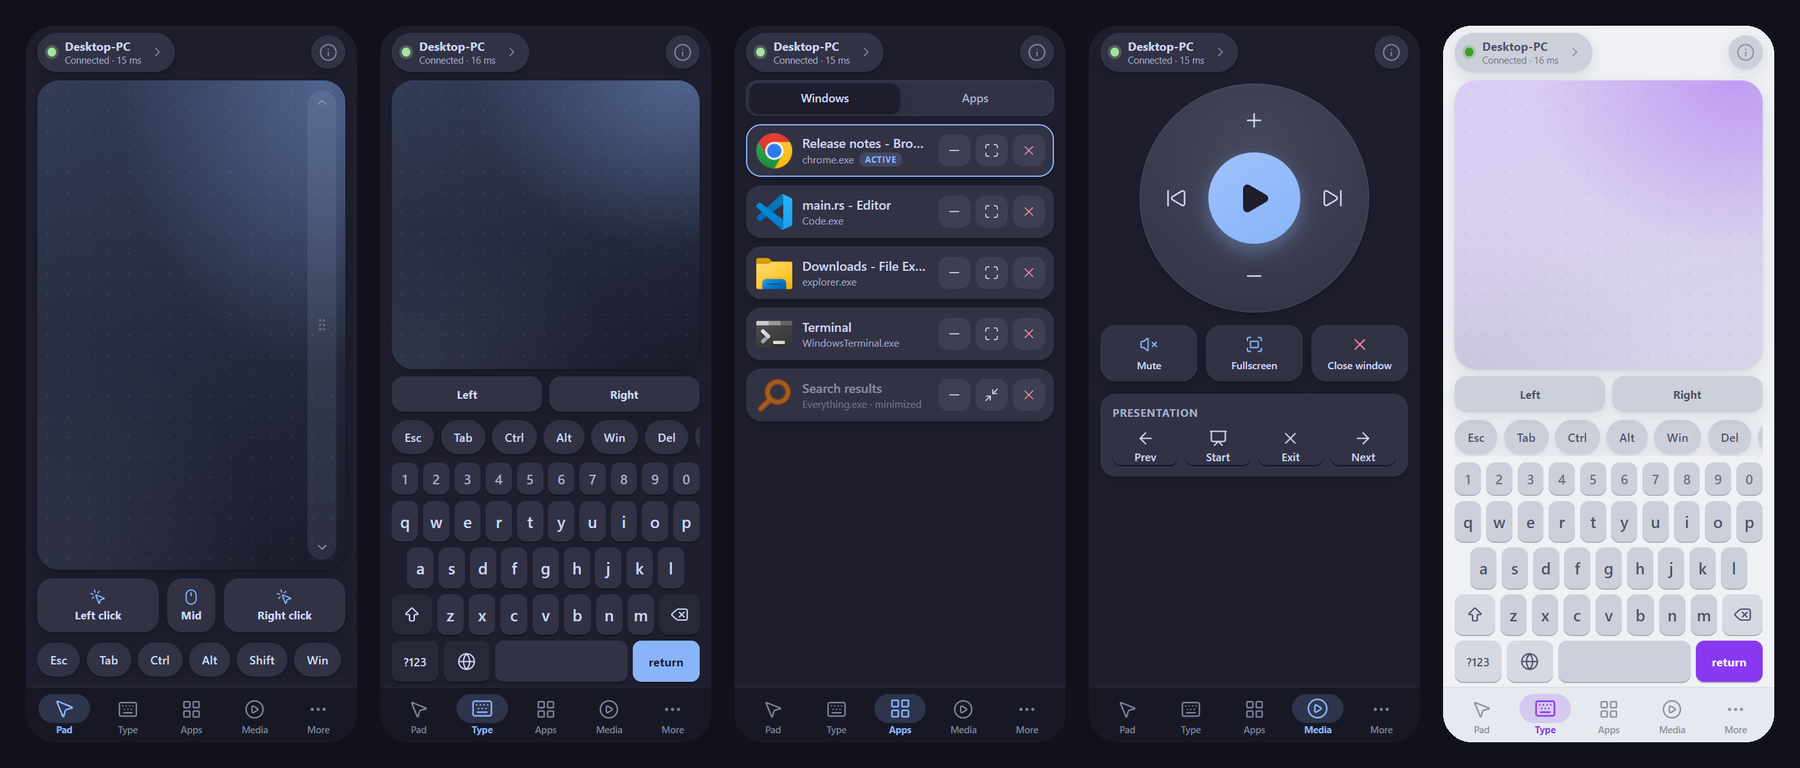
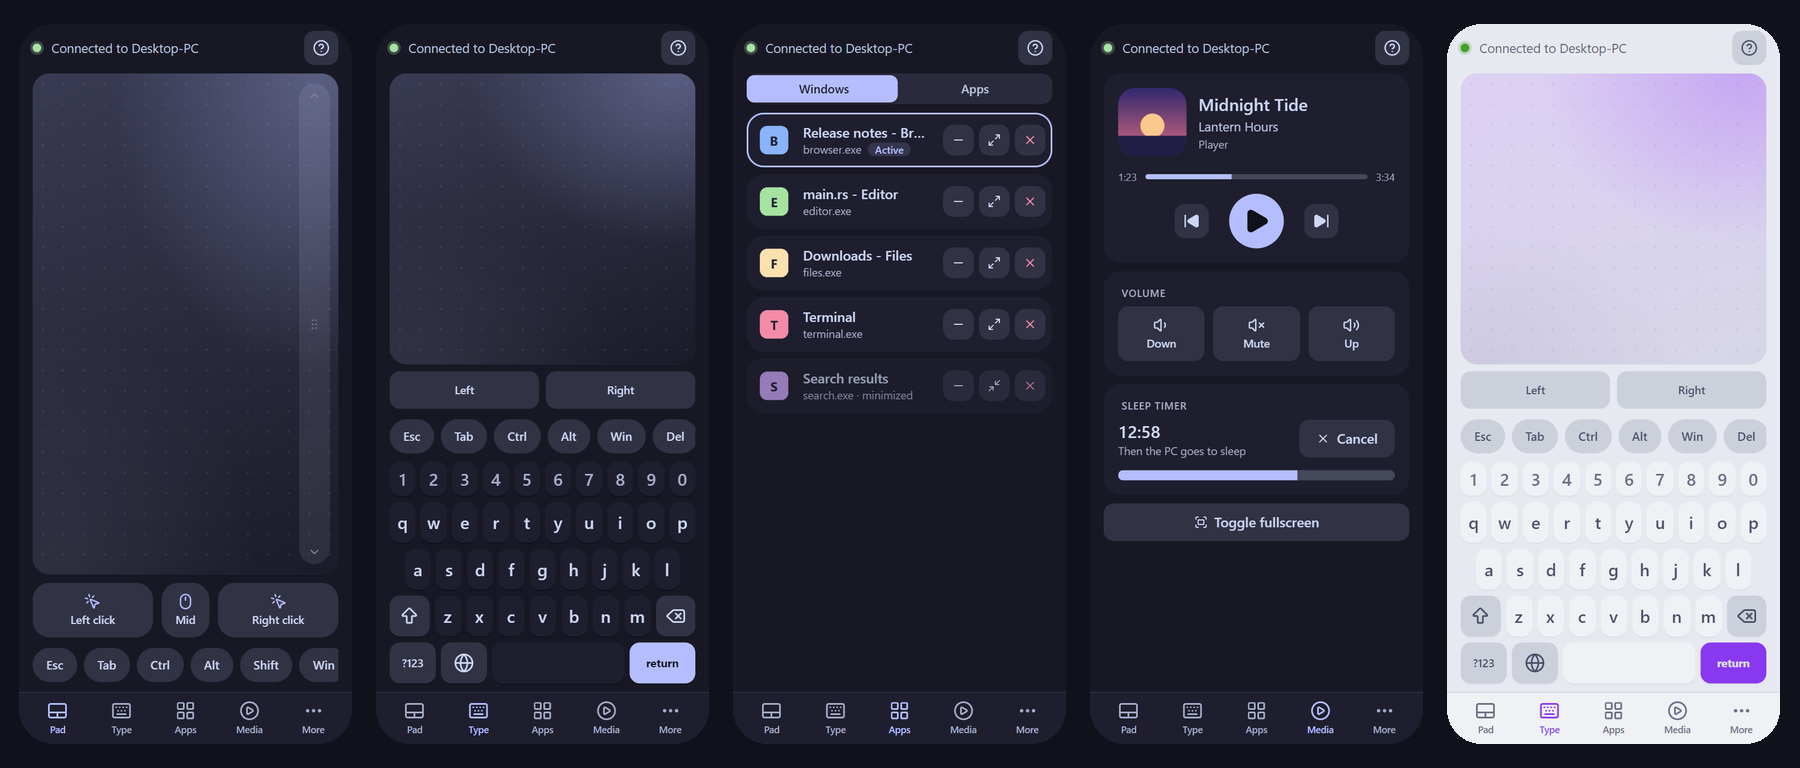
Updated Media

diff --git a/README.md b/README.md
@@ -34,20 +34,20 @@ One small Rust program on the PC serves a touch-friendly web app over your Wi-Fi
 
 <table>
   <tr>
-    <td align="center"><img src="docs/screenshots/pad.png" width="190"><br><sub>Pad</sub></td>
-    <td align="center"><img src="docs/screenshots/gestures.png" width="190"><br><sub>First-run gestures</sub></td>
-    <td align="center"><img src="docs/screenshots/type.png" width="190"><br><sub>Type</sub></td>
-    <td align="center"><img src="docs/screenshots/media.png" width="190"><br><sub>Media</sub></td>
+    <td align="center"><img src="docs/screenshots/pad.gif" width="190"><br><sub>Pad</sub></td>
+    <td align="center"><img src="docs/screenshots/gestures.gif" width="190"><br><sub>First-run gestures</sub></td>
+    <td align="center"><img src="docs/screenshots/type.gif" width="190"><br><sub>Type</sub></td>
+    <td align="center"><img src="docs/screenshots/media.gif" width="190"><br><sub>Media</sub></td>
   </tr>
   <tr>
-    <td align="center"><img src="docs/screenshots/windows.png" width="190"><br><sub>Open windows</sub></td>
-    <td align="center"><img src="docs/screenshots/launcher.png" width="190"><br><sub>App launcher</sub></td>
-    <td align="center"><img src="docs/screenshots/more.png" width="190"><br><sub>More sheet</sub></td>
-    <td align="center"><img src="docs/screenshots/settings.png" width="190"><br><sub>Settings</sub></td>
+    <td align="center"><img src="docs/screenshots/windows.gif" width="190"><br><sub>Open windows</sub></td>
+    <td align="center"><img src="docs/screenshots/launcher.gif" width="190"><br><sub>App launcher</sub></td>
+    <td align="center"><img src="docs/screenshots/more.gif" width="190"><br><sub>More sheet</sub></td>
+    <td align="center"><img src="docs/screenshots/settings.gif" width="190"><br><sub>Settings</sub></td>
   </tr>
   <tr>
-    <td align="center"><img src="docs/screenshots/light-type.png" width="190"><br><sub>Latte + mauve</sub></td>
-    <td align="center"><img src="docs/screenshots/light-windows.png" width="190"><br><sub>Latte windows</sub></td>
+    <td align="center"><img src="docs/screenshots/light-type.gif" width="190"><br><sub>Latte + mauve</sub></td>
+    <td align="center"><img src="docs/screenshots/light-windows.gif" width="190"><br><sub>Latte windows</sub></td>
     <td></td>
     <td></td>
   </tr>
